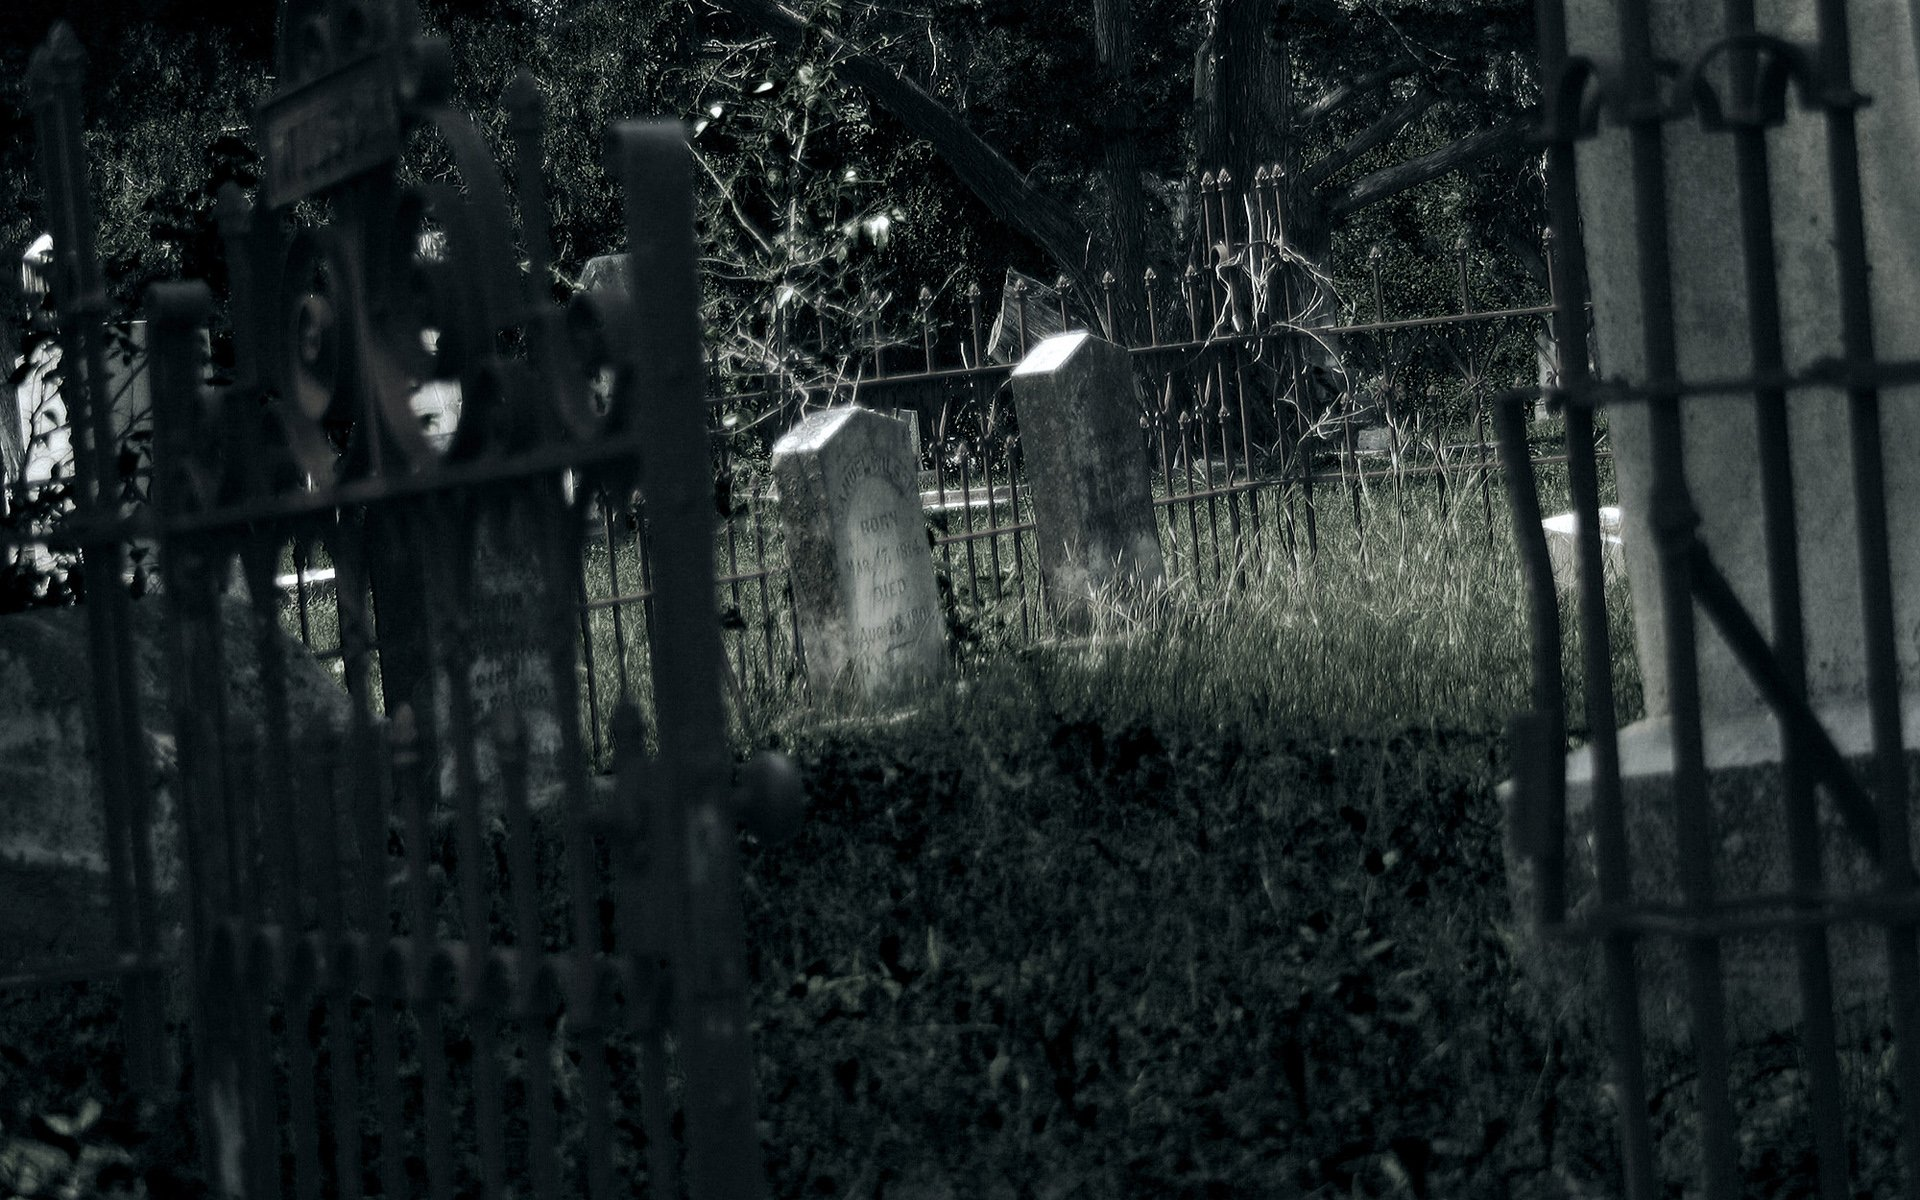
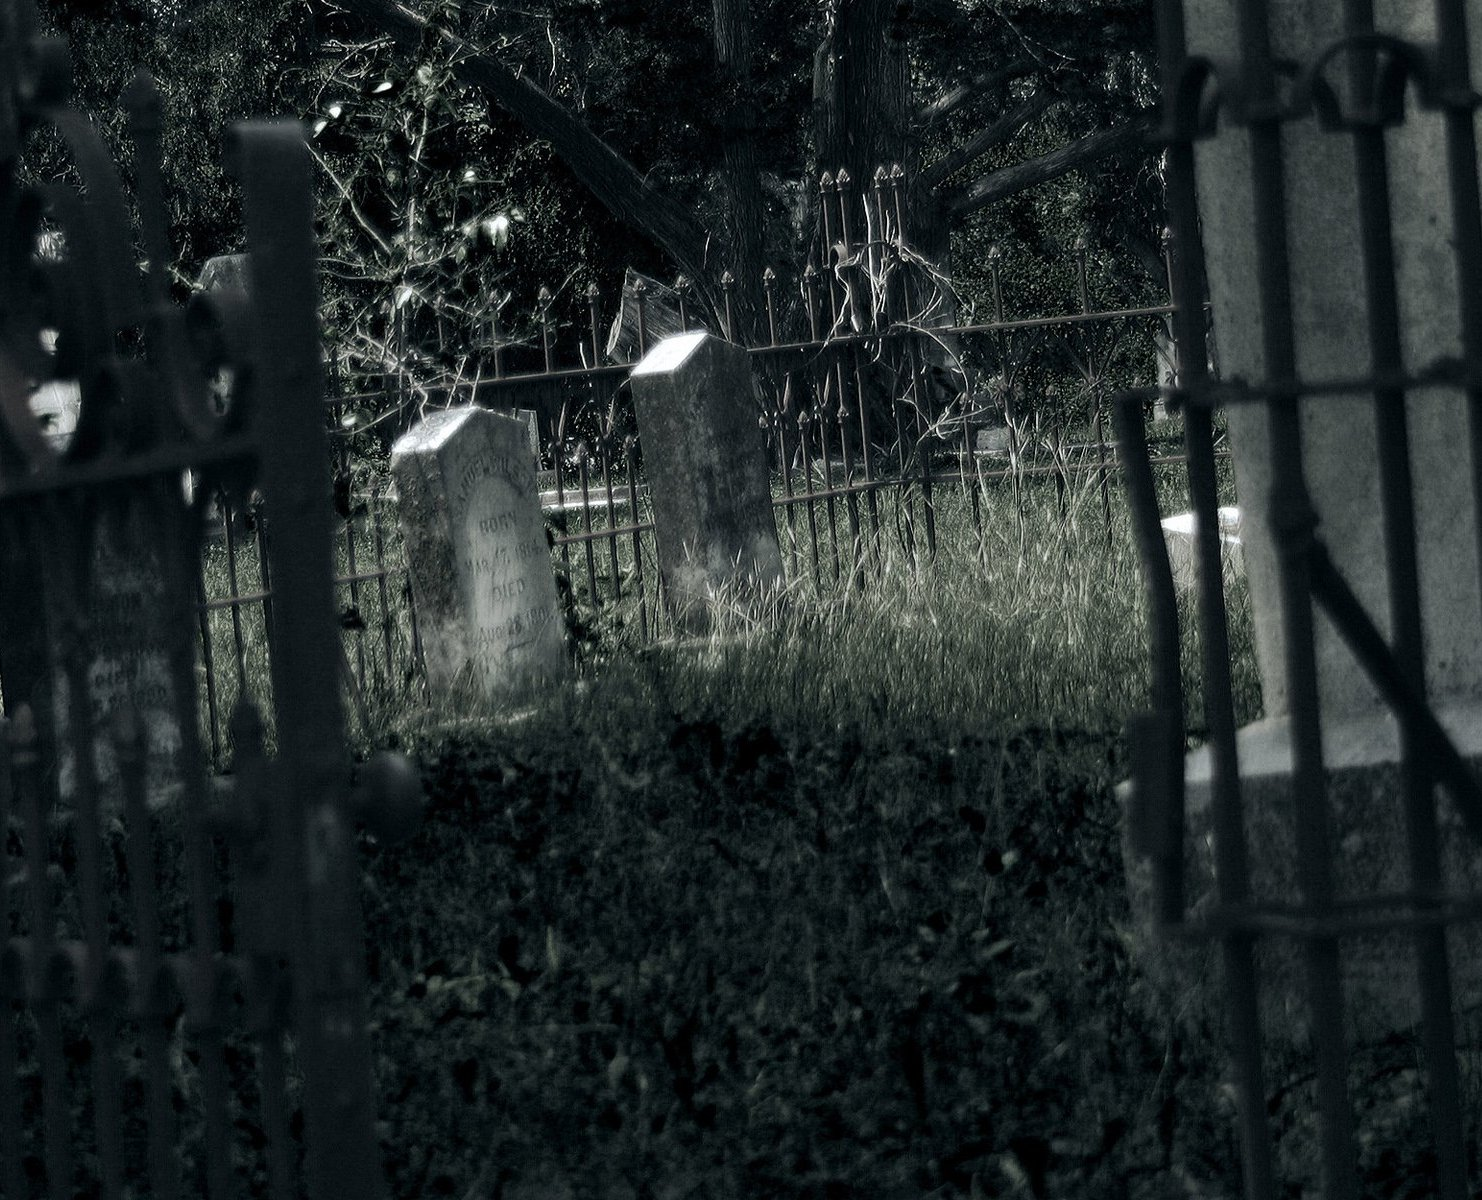
Working on landing page

diff --git a/apps/login/static/css/style.css b/apps/login/static/css/style.css
@@ -1,5 +1,10 @@
 body {
 	background: url('/static/images/graveyard.jpg');
+	-webkit-background-size: cover;
+	-moz-background-size: cover;
+	-o-background-size: cover;
+	background-size: cover;
+	background-repeat: no-repeat;
 }
 h1 {
 	color: white;
